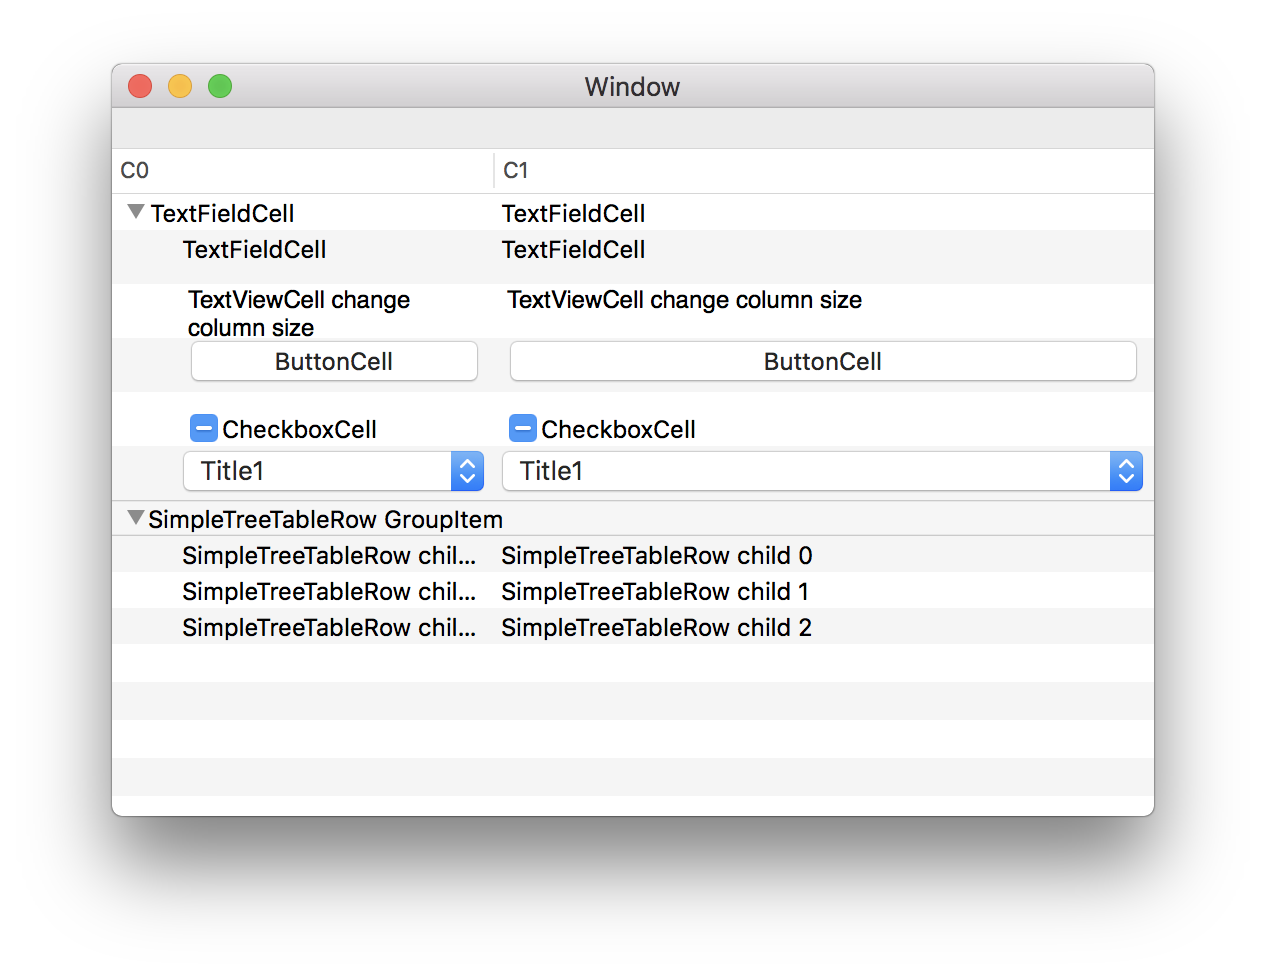
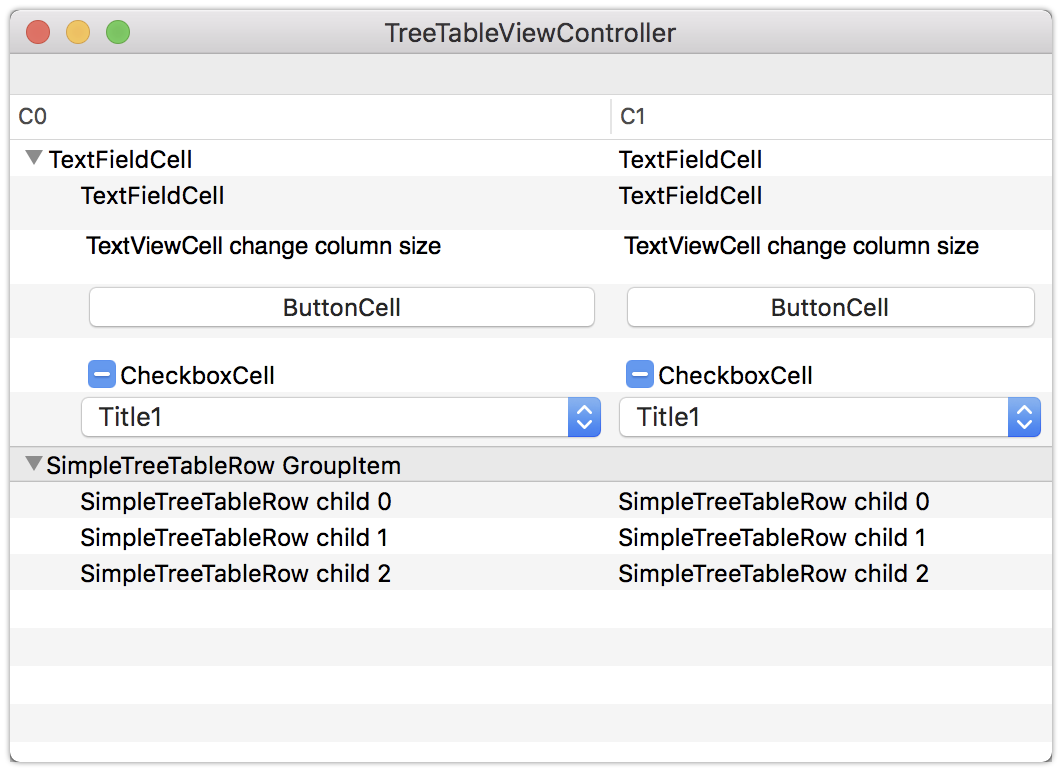
added screenshots

diff --git a/Mac UI/MacArchitecture/Controllers/View/TextFieldViewController.cs b/Mac UI/MacArchitecture/Controllers/View/TextFieldViewController.cs
@@ -97,6 +97,12 @@ namespace MacArchitecture {
         }
 
 
+        public override void ViewDidAppear() {
+            base.ViewDidAppear();
+
+            View.Window.Title = nameof(TextFieldViewController);
+        }
+
         private void SetField<T>(ref T field, T value, string propertyName, Action<T> callback = null) {
             if (EqualityComparer<T>.Default.Equals(field, value))
                 return;

diff --git a/Mac UI/MacArchitecture/Controllers/View/NotificationViewController.cs b/Mac UI/MacArchitecture/Controllers/View/NotificationViewController.cs
@@ -12,6 +12,13 @@ namespace MacArchitecture {
         private NotificationCreator _creator = new NotificationCreator();
 
 
+        public override void ViewDidAppear() {
+            base.ViewDidAppear();
+
+            View.Window.Title = nameof(NotificationViewController);
+        }
+
+
         public override void ViewDidLoad() {
             base.ViewDidLoad();
 

diff --git a/Mac UI/MacArchitecture/Controllers/View/TreeTableViewController.cs b/Mac UI/MacArchitecture/Controllers/View/TreeTableViewController.cs
@@ -18,6 +18,13 @@ namespace MacArchitecture {
         private AlertWindow _alertWindow = new AlertWindow();
 
 
+        public override void ViewDidAppear() {
+            base.ViewDidAppear();
+
+            View.Window.Title = nameof(TreeTableViewController);
+        }
+
+
         public override void ViewDidLoad() {
             base.ViewDidLoad();
 

diff --git a/Mac UI/MacArchitecture/Controllers/View/OrdinaryTableViewController.cs b/Mac UI/MacArchitecture/Controllers/View/OrdinaryTableViewController.cs
@@ -22,6 +22,13 @@ namespace MacArchitecture {
 
         private string _cellValue = string.Empty;
 
+
+        public override void ViewDidAppear() {
+            base.ViewDidAppear();
+
+            View.Window.Title = nameof(OrdinaryTableViewController);
+        }
+
         public override void ViewDidLoad() {
             base.ViewDidLoad();
 
